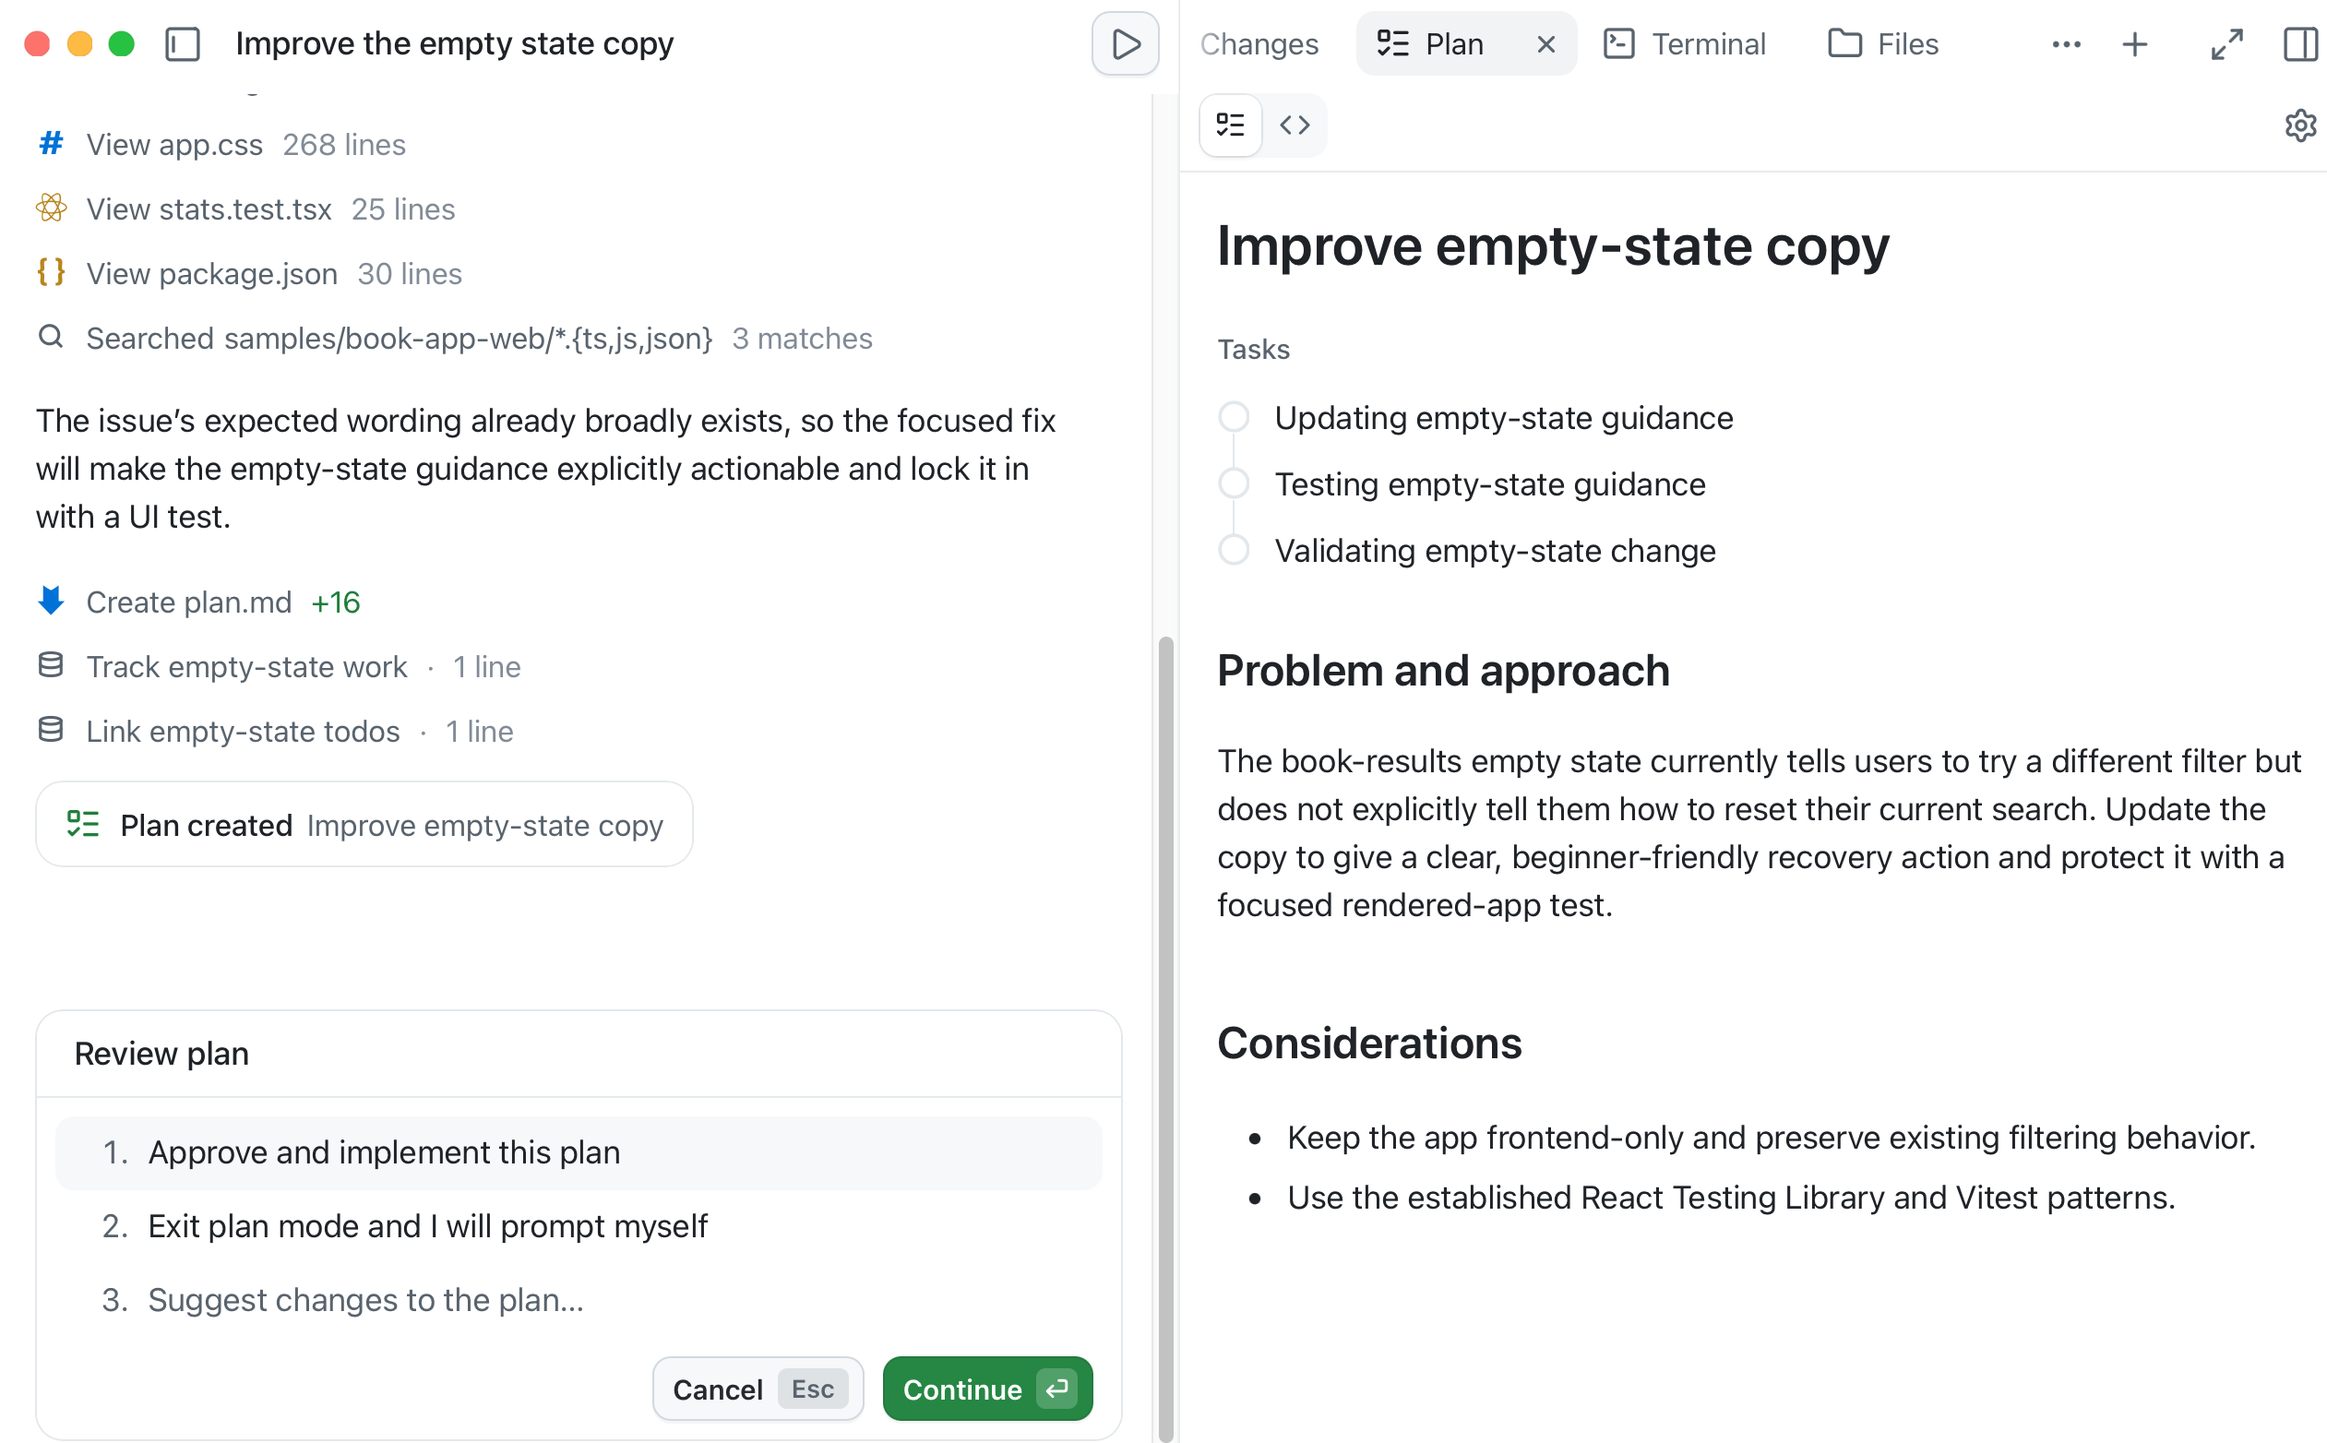
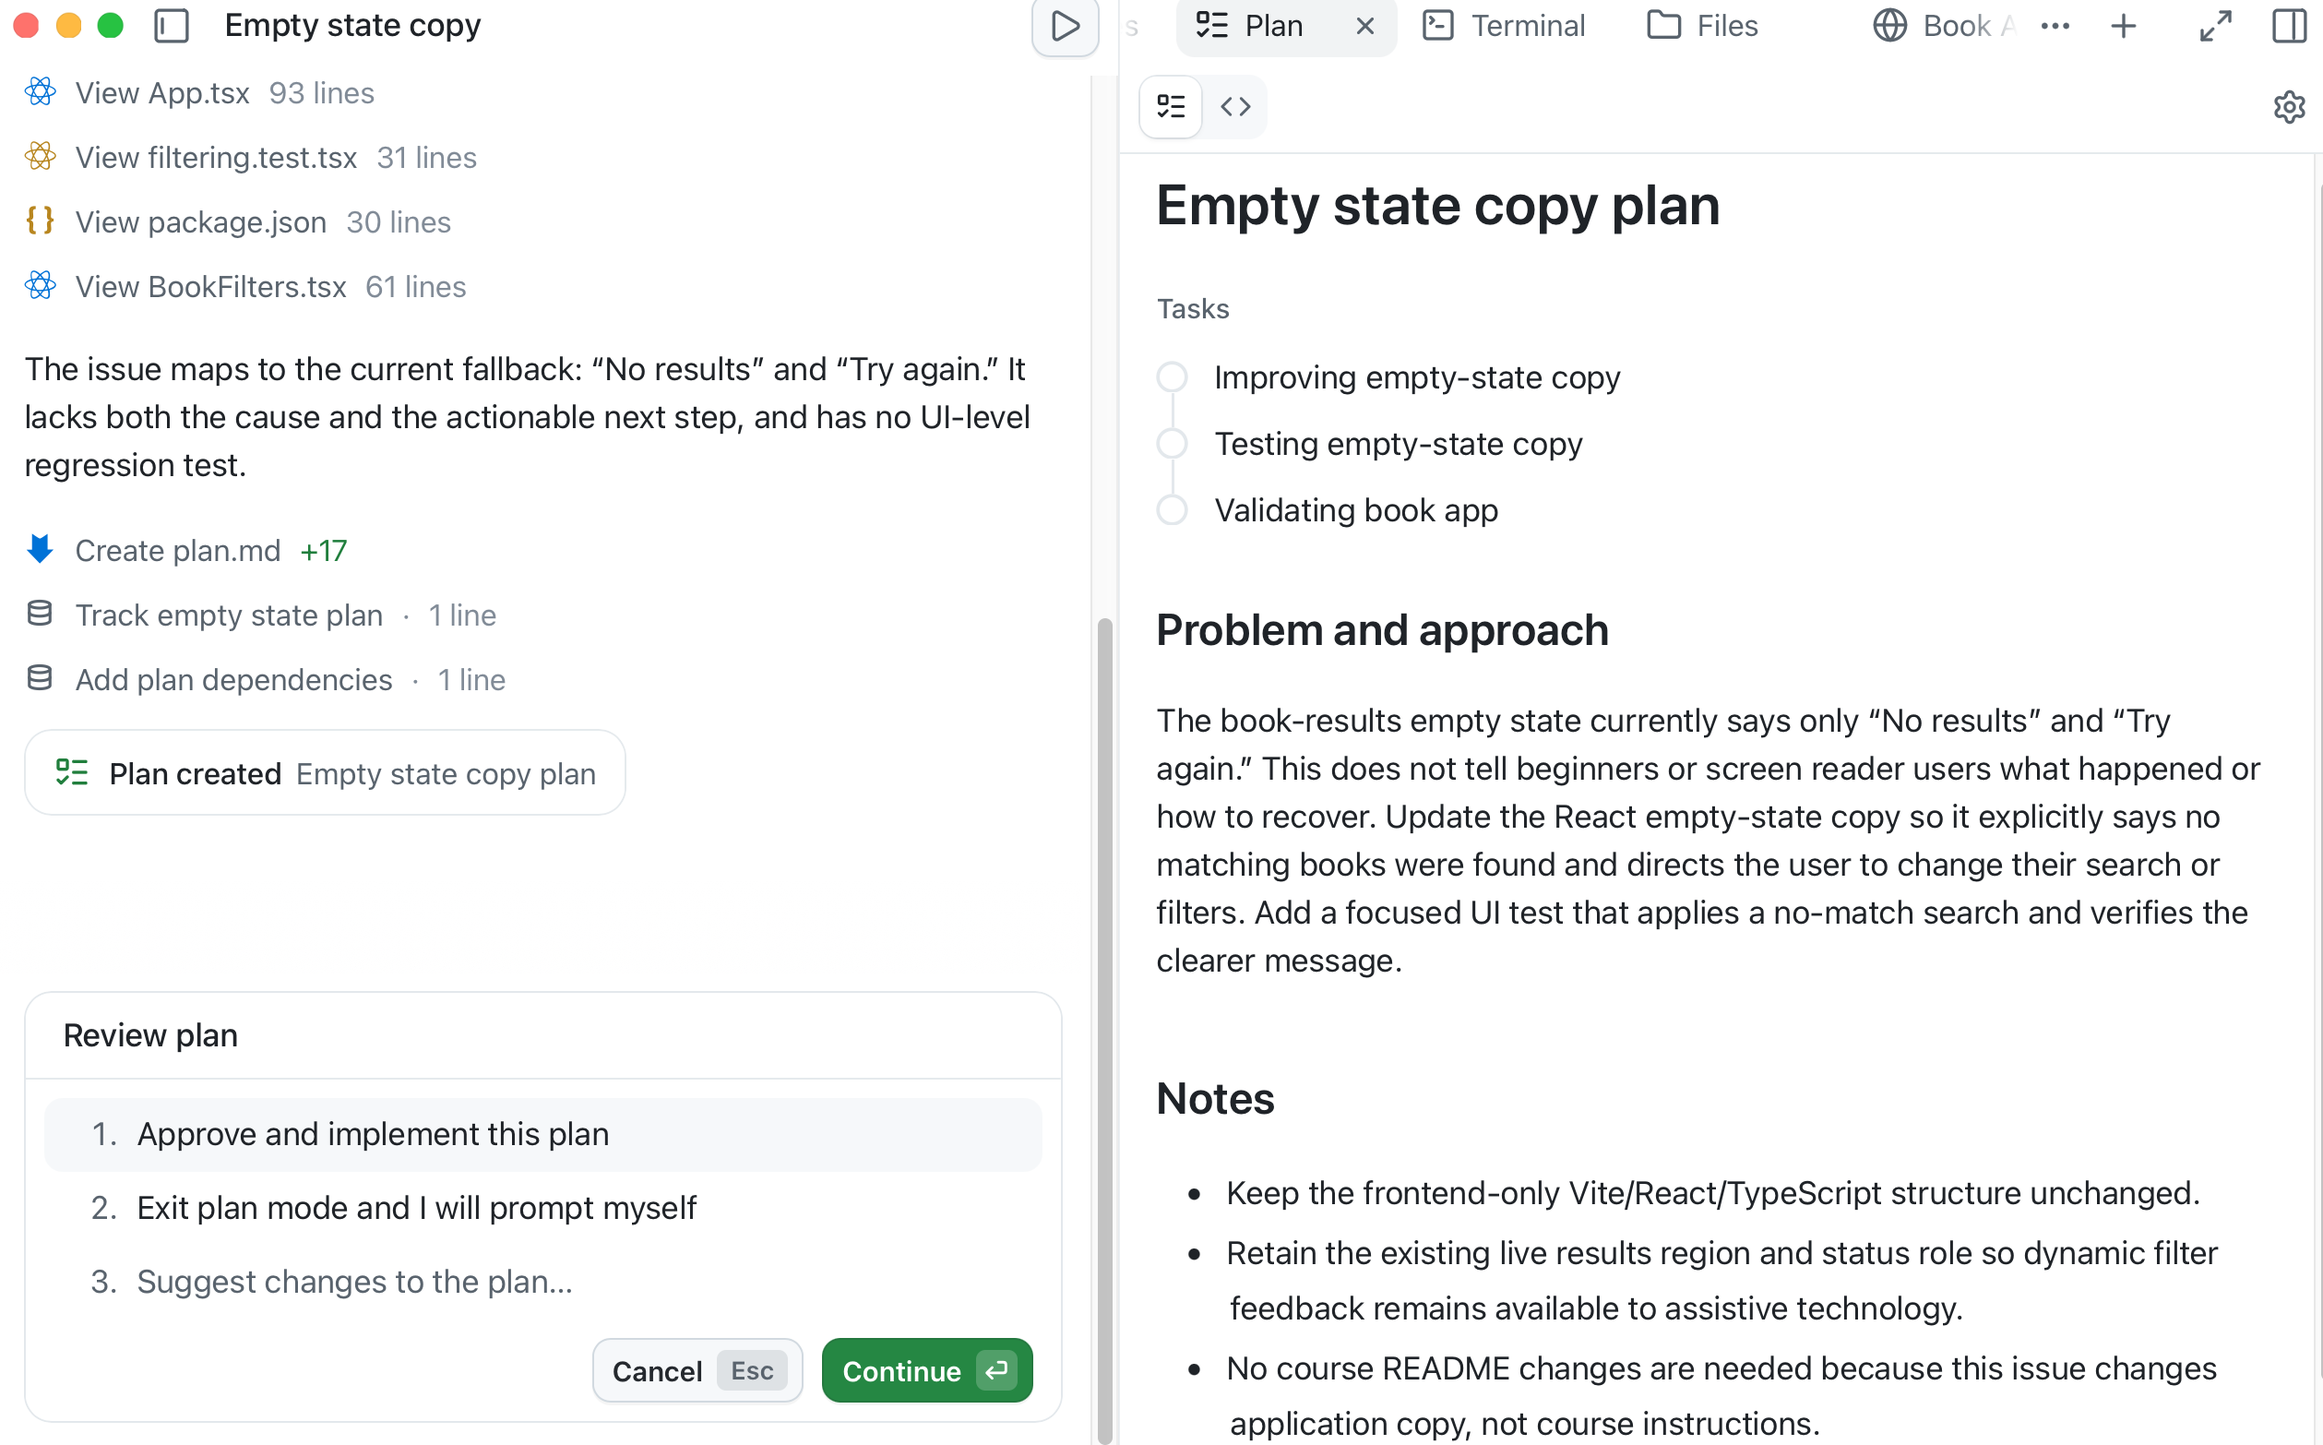
- Remove the branches used in this course section - Run the app and notice what displays when no books match. Call that out so that when they work with the issue, they can see the difference. - Assignment update to new issue

diff --git a/02-sessions-worktrees-context/README.md b/02-sessions-worktrees-context/README.md
@@ -11,7 +11,7 @@ By the end of this chapter, you'll be able to:
 - Start a session from a prompt, issue or pull request
 - Explain what a git worktree is and why you'd use it
 - Understand why isolated sessions protect your main branch
-- Use `@` for file and folder context, `#` for issue or PR context, and `/` for app commands
+- Add relevant context to a session so Copilot can understand the task and its supporting information
 - Decide between working directly with a local repository, an isolated worktree, or a cloud sandbox
 
 > ⏱ **Estimated Time**: ~30 minutes
@@ -20,7 +20,7 @@ By the end of this chapter, you'll be able to:
 
 Complete Chapters [00](../00-setup/README.md) and [01](../01-tour-the-app/README.md). At this point, you've connected the course repository and understand the difference between chats and project sessions.
 
-## 🧩 Real-World Analogy: One Studio, Many Recording Booths
+## From the Studio: One Studio, Many Recording Booths
 
 Imagine one song that three musicians (vocalist, guitar, drums) need to record at the same time. To get the best results, you wouldn't crowd them around a single microphone and hope it works out. You'd put each one in their own soundproof booth to lay down a different part individually or possibly in parallel (to get more of that "live" feel), then mix the takes together later. This approach allows each recorded track to be edited and modified separately.
 
@@ -91,8 +91,6 @@ The GitHub Copilot app lets you attach context in the prompt box with `@`, `#`, 
 | `/` | Slash commands | `/chronicle standup` |
 | `&` | Other sessions, when the prompt box offers it | Type `&` and pick a session from the list |
 
-You'll use `@`, `#`, and `/` in this course. Treat `&` as optional. Use it later if you want one session to see what another session already worked on.
-
 > Tip: Provide the smallest amount of useful context - less is often more.
 
 ### Slash Commands
@@ -129,48 +127,27 @@ When in doubt, type `/` and use the in-app palette to discover what's available.
 
 </details>
 
-### Branches Used in This Course
-
-Back in [Chapter 00](../00-setup/README.md), the setup script added several *practice branches* to your forked repository. As a quick refresher, each practice branch starts from your `main` branch and adds a small intentional change to the sample app in `samples/book-app-web`, usually a bug for you to fix, set up for one specific exercise later in the course. Because that change lives on its own branch, you can inspect or fix it in a safe, realistic way without touching `main` or the working app.
-
-Each exercise names the branch it needs. For reference, here is the full set that you'll see in this course:
-
-- `practice-search-case-bug`: book search is case-sensitive when it should match regardless of case
-- `practice-unread-count-bug`: the unread stats count is wrong while a filter is active
-- `practice-empty-state-copy`: the "no results" empty-state message needs clearer, friendlier copy
-- `practice-card-polish`: a starting point for improving book card spacing and responsive layout
-- `practice-failing-stats-check`: a stats test fails on purpose so you can practice fixing a failing CI check
-
-When an exercise calls for you to use one of these branches, you'll use it to create your GitHub Copilot app session. You can do this by selecting the project's `Create from` icon in the sidebar (1) and then selecting the desired branch from the dialog (2).
-
-![Step 1: Select the Create from icon next to the project name](assets/app-create-from-icon-step1.svg)
-
-![Step 2: Choose a branch from the Create from dialog](assets/app-branches-dialog-step2.svg)
-
-Try it out!
-1. Locate the **copilot-app-for-beginners** project in the sidebar.
-2. Select the `Create from` icon next to the project name.
-3. Notice that branches, PRs, and issues are available to select from the dialog.
-
-There's no need to select anything quite yet. You'll do that in later exercises.
-
-> Don't see the branches? You may have skipped the setup script, or you're on a different clone. Run it now from [Chapter 00](../00-setup/README.md#2-fork-clone-and-prepare-the-course-repository), or follow the manual steps in [appendices/training-github-scenarios.md](../appendices/training-github-scenarios.md).
-
 ## Exercise: Start a Session from an Issue
 
-You'll start a new session directly from a GitHub issue, without leaving the app - a big time saver! Your forked repository already has seeded issues if you ran the setup script in [00 - Setup](../00-setup/README.md).
+You'll start a session from a practice branch that contains an intentional empty-state regression, then attach the corresponding GitHub issue as context. Your forked repository already has the branch and issue if you ran the setup script in [00 - Setup](../00-setup/README.md).
 
 Perform these steps:
 
-1. On the **My work** tab, find and click on **Issue 3: Improve the empty state copy** to read and understand the task (the exact number may differ if issues were reseeded - look for the matching title):
+1. In the sidebar, find the `copilot-app-for-beginners` project and select its **Create from** icon.
 
-   ![Open issues three](assets/open-issue-3.png)
+   ![Create session from branch](assets/app-create-from-icon-step1.svg)
 
-1. Click on **New session** at the top. The app starts a new session with the issue attached and `/issue-fix` slash command pre-populated.
+1. Select the **Branches** tab, then select `practice-empty-state-copy`. The app starts a new session from that branch in a new worktree.
 
-1. In the session composer, set the **Mode** selector to **Plan**.
+1. In the session prompt box, set the **Mode** to **Plan**.
 
-1. You can add your own instructions in the composer, or submit the prompt as is. Click **send**.
+1. Type `#3`, then select **Improve the empty state copy** from the issue picker to attach it to the prompt. If your seeded issue has a different number, type `#` and select it by title.
+
+1. Add the following instruction after the attached issue, then send the prompt:
+
+   ```text
+   Investigate the issue and create a plan to address it.
+   ```
 
    Copilot should analyze the issue and generate a plan that you can review before making any changes. Notice that you can then approve and implement the plan using autopilot, exit plan mode and add your own prompts, or suggest changes to the plan.
 
@@ -178,45 +155,38 @@ Perform these steps:
 
 1. Select `Exit plan mode and I will prompt myself` to exit plan mode and continue with your own prompts.
 
-Now that you have a plan, you'll narrow the session's focus so Copilot edits only the relevant source files.
+   Before making changes, run the Book App and observe its current behaviour so you have a baseline for comparison.
 
 1. Submit this prompt:
 
    ```text
-   Use @samples/book-app-web/src to focus on the React app code. Which files are most likely involved in the empty-state copy?
+   Run the Book App in samples/book-app-web and open the preview.
    ```
-   > Tip: Manually type the `@samples/book-app-web/src` part of the prompt **then** click on the */samples/book-app-web/src* link in the composer to select the folder.
 
-   Copilot will focus on the sample app source folder instead of referencing unrelated files or folders in the working directory and show a list of files that are likely involved in the empty-state copy. This narrowed context helps keep the session's context smaller and more relevant to the task.
+1. The preview opens in the built-in browser panel. In the search bar on the book app, search for `hobbit` and confirm that **The Hobbit** appears.
+
+1. Replace the search with `zzzz-no-match` to display the empty state. Note its current heading and message so you can compare them with the updated version later.
+
+   ![Book app empty state before fix](assets/book-app-empty-state-before.png)
 
 1. Ask the agent to implement the plan: `Implement the plan`
 
    As Copilot works, you'll see real-time updates on the **Tasks list** on the **Plan** page. A **Changes** tab will show the diff of the files being modified.
 
-## Review changes
+1. Click on the *Changes tab* on the panel or on the *Changes pill* right on top of the prompt box to inspect the diff.
 
-1. Click on the *Changes* pill tab to see the diff of the files being modified.
-
-1. Ask Copilot to start the preview server to test the changes. 
-
-   ```
-   Start the preview server.
-   ```
-
-   **Expected Output**: The preview server starts and opens a browser panel in the app. Type a random search term in the search box to see the empty state message. The message should now be more friendly and clear.
-
-   ![Preview server running with improved empty state copy](assets/browser-panel-preview.png)
+1. Reload the browser tab and try the same search again. The empty state should now have a more friendly message.
 
 ## Slash Commands
 
-Slash commands are shortcuts you run in the composer. Here you'll use:
+Slash commands are shortcuts you run in the prompt box. Here you'll use:
 
 - `/chronicle` to get a quick recap of what the session has done so far. Adding the `standup` argument formats that recap as a short, standup meeting-style summary.
 - `/context` to check how much context the session is using, as well as inspect the branch and worktree the session is running in.
 
 Perform these steps:
 
-1. In the session composer, make sure you're in the session you've been working in, submit the following slash command:
+1. In the session prompt box, make sure you're in the session you've been working in, submit the following slash command:
 
    ```text
    /chronicle standup
@@ -232,7 +202,7 @@ Perform these steps:
    /context
    ```
 
-   Note: Click on the **Context bar** to expand
+   Note: On the modal, click on the **Context bar** to expand
 
    Context is the content the GitHub Copilot app is using for the current session. Checking it helps you know when a session is getting overloaded before you add more files, issues, or instructions.
 
@@ -241,7 +211,12 @@ Perform these steps:
    ![Session Context](assets/context-information.png)
 
    1. This is where a session keeps its evidence of the **working branch** and the branch it branched from, the **worktree path**, the **project** the session is working in, the current **session name** and its assigned **session ID**. 
-   1. The **Context usage** section shows how many **tokens** the session is using (both cached and reasoning tokens), the **context window usage so far** with granular distribution across the system prompt, tools, messages etc. and your current **AI credit spend** for the session.
+   2. The **Context usage** section shows how many **tokens** the session is using (both cached and reasoning tokens), the **context window usage so far** with granular distribution across the system prompt, tools, messages etc. and your current **AI credit spend** for the session.
+
+> [!NOTE]
+> This practice branch contains an intentional regression. You do not need to create a pull request or merge the completed fix into `main`, because `main` already contains the correct behaviour. After you validate the fix, you can archive the session.
+>
+> On the context card, select **Archive session** to remove it from the sidebar. The worktree and branch remain on your machine, but the session is no longer active.
 
 ---
 
@@ -284,26 +259,43 @@ Worktrees isolate files and branches, not ports. Stop one Vite server or start t
 
 ---
 
-## 📝 Assignment
+## Assignment
 
 ![Assignment](../assets/assignment.webp)
 
-Start a new Plan mode session for the following task:
+Use the workflow from this chapter to add a light and dark theme to the Book App.
 
-```text
-Investigate how samples/book-app-web calculates reading stats. Do not edit files. Explain which files are involved and what tests would prove the behavior.
-```
+1. In the sidebar, select **Create from** for the `copilot-app-for-beginners` project and start a new worktree session from `main`.
 
-Then answer:
+1. Ask Copilot to run `samples/book-app-web` and open the preview.
 
-1. What branch or worktree did the session use?
-2. Which files did Copilot inspect or recommend inspecting?
-3. What validation did Copilot suggest?
-4. Did you keep the context focused?
+1. Inspect the app and confirm that it only supports a light theme.
 
----
+1. In **My work**, create an issue requesting a theme toggle. Include these acceptance criteria:
 
-## ➡ What's Next
+   - The user can switch between light and dark themes.
+   - The toggle has a clear, accessible label.
+   - Text, controls, cards, and backgrounds remain readable in both themes.
+
+1. Return to the same session and set it to **Plan** mode. Type `#`, select the issue you created, and add this prompt:
+
+   ```text
+   Investigate this issue and create a small implementation and validation plan. Do not change any files yet.
+   ```
+
+1. Review the plan, exit Plan mode, and ask Copilot to implement it.
+
+1. Inspect the diff, reload the browser preview, and verify that the toggle switches between readable light and dark themes.
+
+1. Ask Copilot to run the relevant tests and build. After the change is validated, choose how to finish:
+
+   - **Keep it as practice:** Archive the session. The theme feature remains in its worktree and is not added to `main`.
+   - **Keep the feature:** Select **Create PR**, review the pull request and its checks then merge it into `main`. Close the issue after the pull request is merged, then archive the session.
+
+   > [!TIP]
+   > Add `Closes #ISSUE-NUMBER` to the pull request description if you want GitHub to close the issue automatically when the pull request is merged.
+
+## What's Next
 
 In the next chapter, you'll use isolated sessions for real development work. The inner loop covers review, debug, test, and browser preview. The outer loop covers My work, issues, pull requests, review comments, and checks.
 
